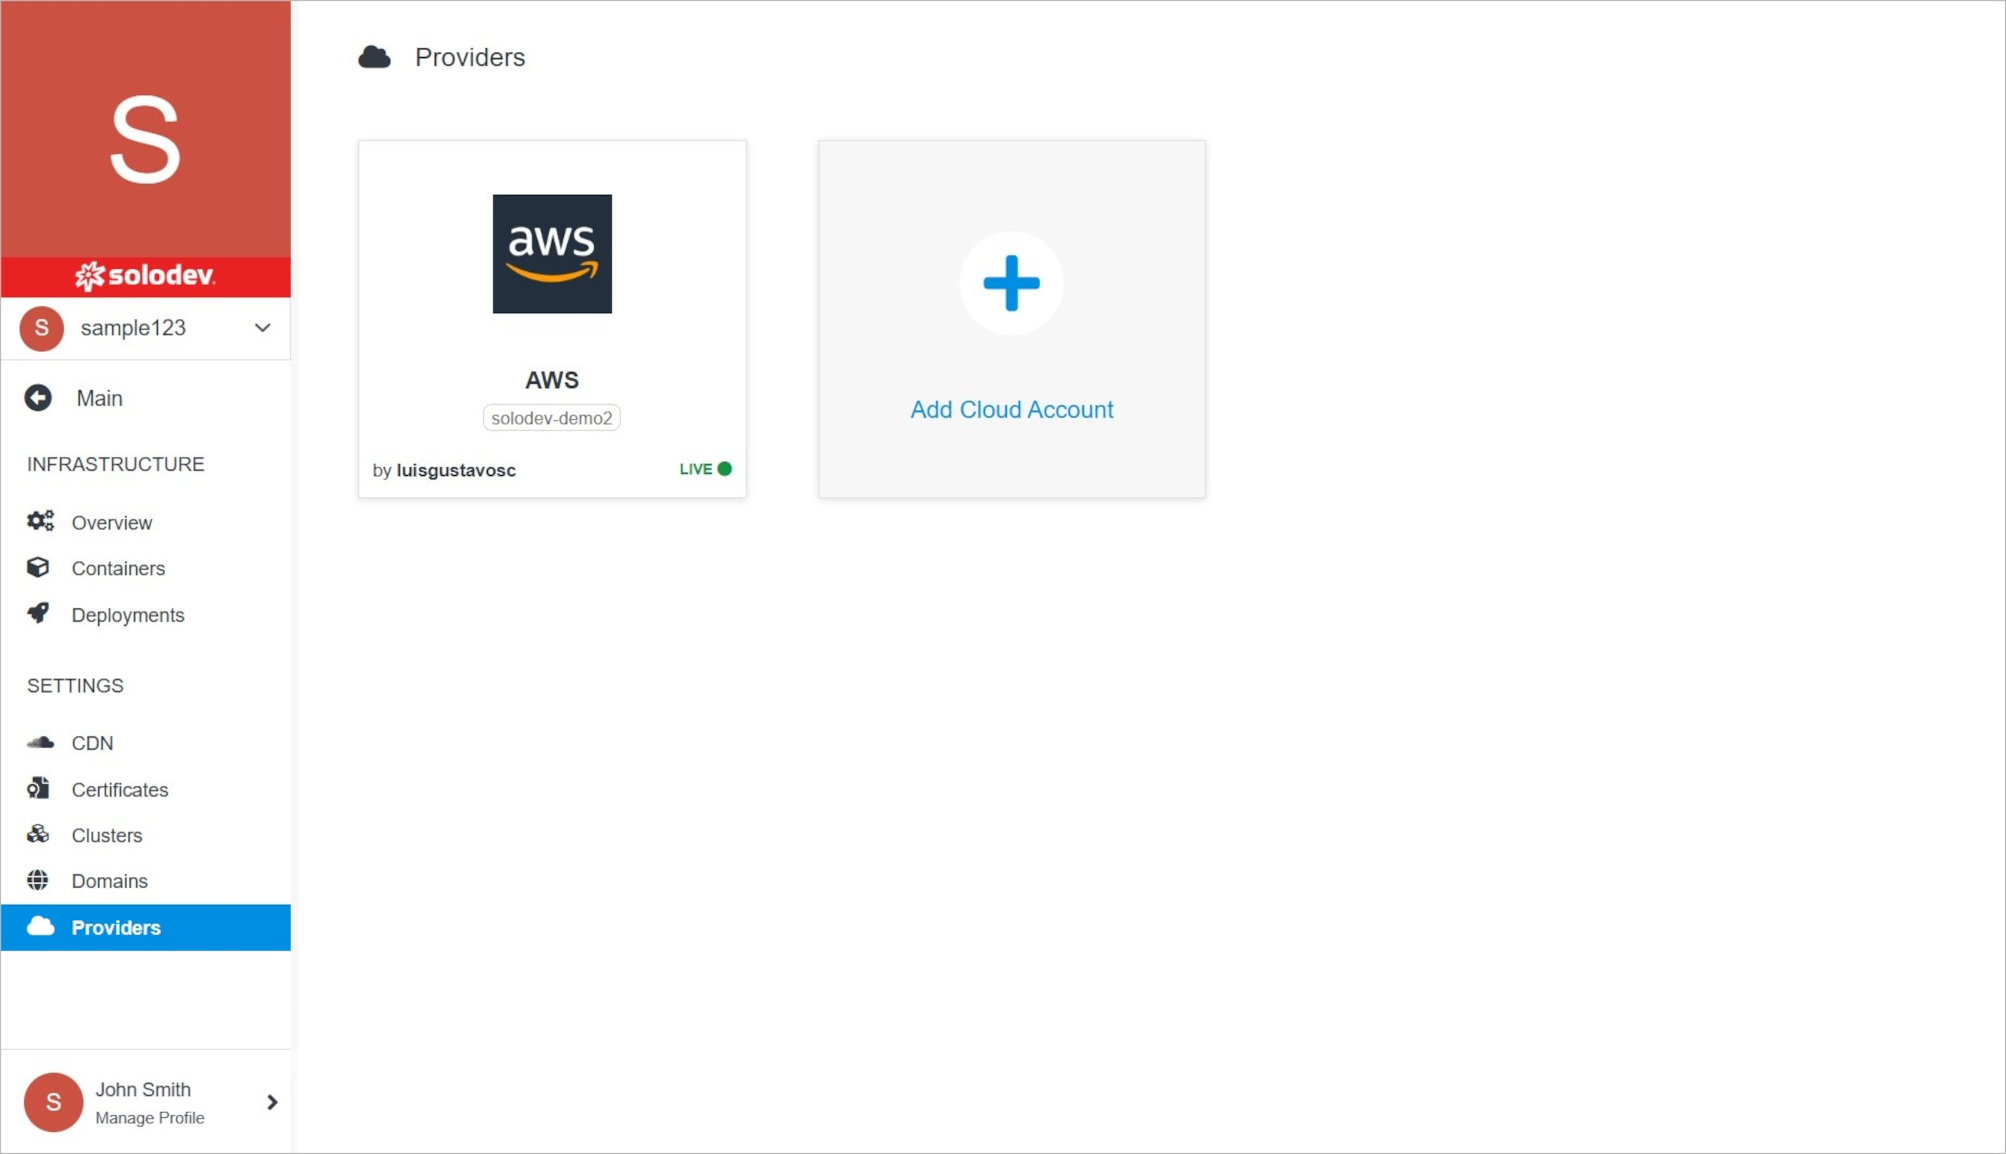
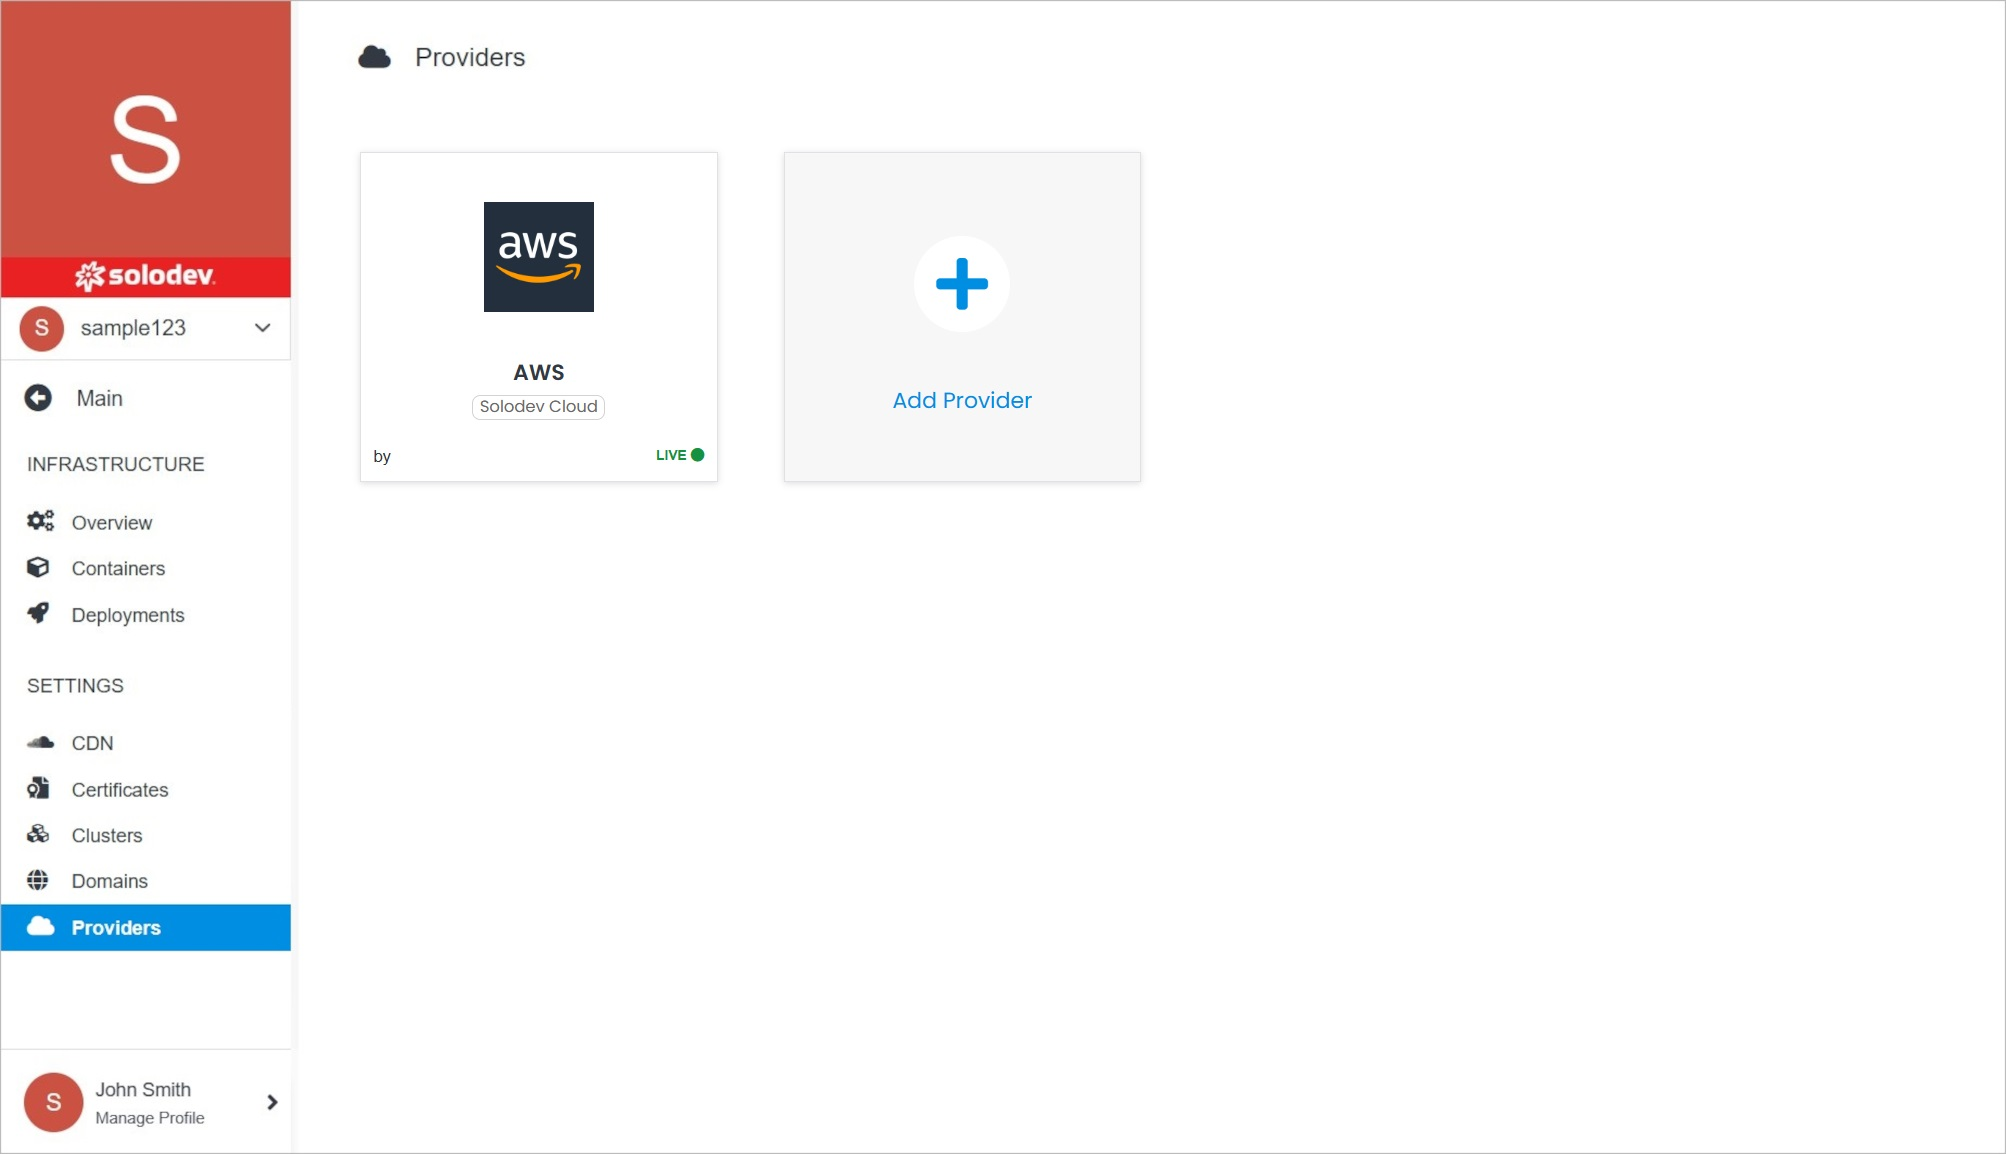
Karolina: CDN and Providers amended

diff --git a/src/infrastructure/providers/Add Provider/index.md b/src/infrastructure/providers/Add Provider/index.md
@@ -1,0 +1,70 @@
+# Add Provider
+
+Adding a provider in Solodev Cloud is a simple process, and can be completed in minutes by following the steps below.
+
+<img src="../../../images/addcloudaccount.jpg" alt="addcloudaccount" style="width: 100%; display: block"></a>
+
+**Name** | **Description** 
+:--- | ---
+Product Selection | Select the provider you are interested in by clicking on the button on the product card.
+
+<img src="../../../images/addcloudaccount2.jpg" alt="addcloudaccount2" style="width: 100%; display: block"></a>
+
+**Name** | **Description** 
+:--- | ---
+Install for free | Click this button to go one step further, selecting a product type before.
+
+<img src="../../../images/addcloudaccount3.jpg" alt="addcloudaccount3" style="width: 100%; display: block"></a>
+
+**Name** | **Description** 
+:--- | ---
+Complete Purchase | Click this button to complete your purchase.
+
+<img src="../../../images/addcloudaccount4.jpg" alt="addcloudaccount4" style="width: 100%; display: block"></a>
+
+**Name** | **Description** 
+:--- | ---
+Install | Install the product.
+
+<img src="../../../images/addcloudaccount5.jpg" alt="addcloudaccount5" style="width: 75%; display: block"></a>
+
+**Name** | **Description** 
+:--- | ---
+<a href="/infrastructure/providers/add-cloud-account/#automatically-using-cloud-formation">Automatically Using CloudFormation</a> | Use a CloudFormation template to create a stack that automatically adds the IAM permissions and other resources necessary for integrating your AWS account.
+<a href="/infrastructure/providers/add-cloud-account/#manually">Manually</a> | Add the IAM needed to integrate your AWS account in the AWS console, then finish setup in Cloud.
+
+## Automatically Using Cloud Formation
+
+Use the automatic mode.
+
+<img src="../../../images/addcloudaccount6.jpg" alt="addcloudaccount6" style="width: 75%; display: block"></a>
+
+**Name** | **Description** 
+:--- | ---
+Select AWS Region | Choose the region where the CloudFormation stack is created.
+
+## Manually
+
+Use the manual mode.
+
+<img src="../../../images/addcloudaccount7.jpg" alt="addcloudaccount6" style="width: 75%; display: block"></a>
+
+**Name** | **Description** 
+:--- | ---
+Credentials Type | Choose the credentials type. Ypu can choose from **Role Delegation** and **Access Key**. In case of **Access Key** you will be asked to provide more details as: name, AWS access and secret keys.
+
+<img src="../../../images/addcloudaccount8.jpg" alt="addcloudaccount8" style="width: 75%; display: block"></a>
+
+**Name** | **Description** 
+:--- | ---
+Name | Enter the name.
+AWS Access Key | Enter the AWS Access Key.
+AWS Secret Key | Enter the Secret Key.
+
+## Confirm
+
+Once you have completed all the fields, click **Connect** to add your provider.
+
+!!!Note:
+The provider addition process may take several minutes to complete after clicking the **Connect** button. Do not close or quit your browser during this process.
+!!!

diff --git a/src/infrastructure/providers/index.md b/src/infrastructure/providers/index.md
@@ -8,4 +8,4 @@ Manage providers which are presented in the form of cards showing all their stat
 
 **Name** | **Description** 
 :--- | ---
-<a href="/infrastructure/providers/add-cloud-account">Add Cloud Account</a>  | Add a new provider to your Solodev Cloud.
+<a href="/infrastructure/providers/add-provider">Add Provider</a>  | Add a new provider to your Solodev Cloud.
